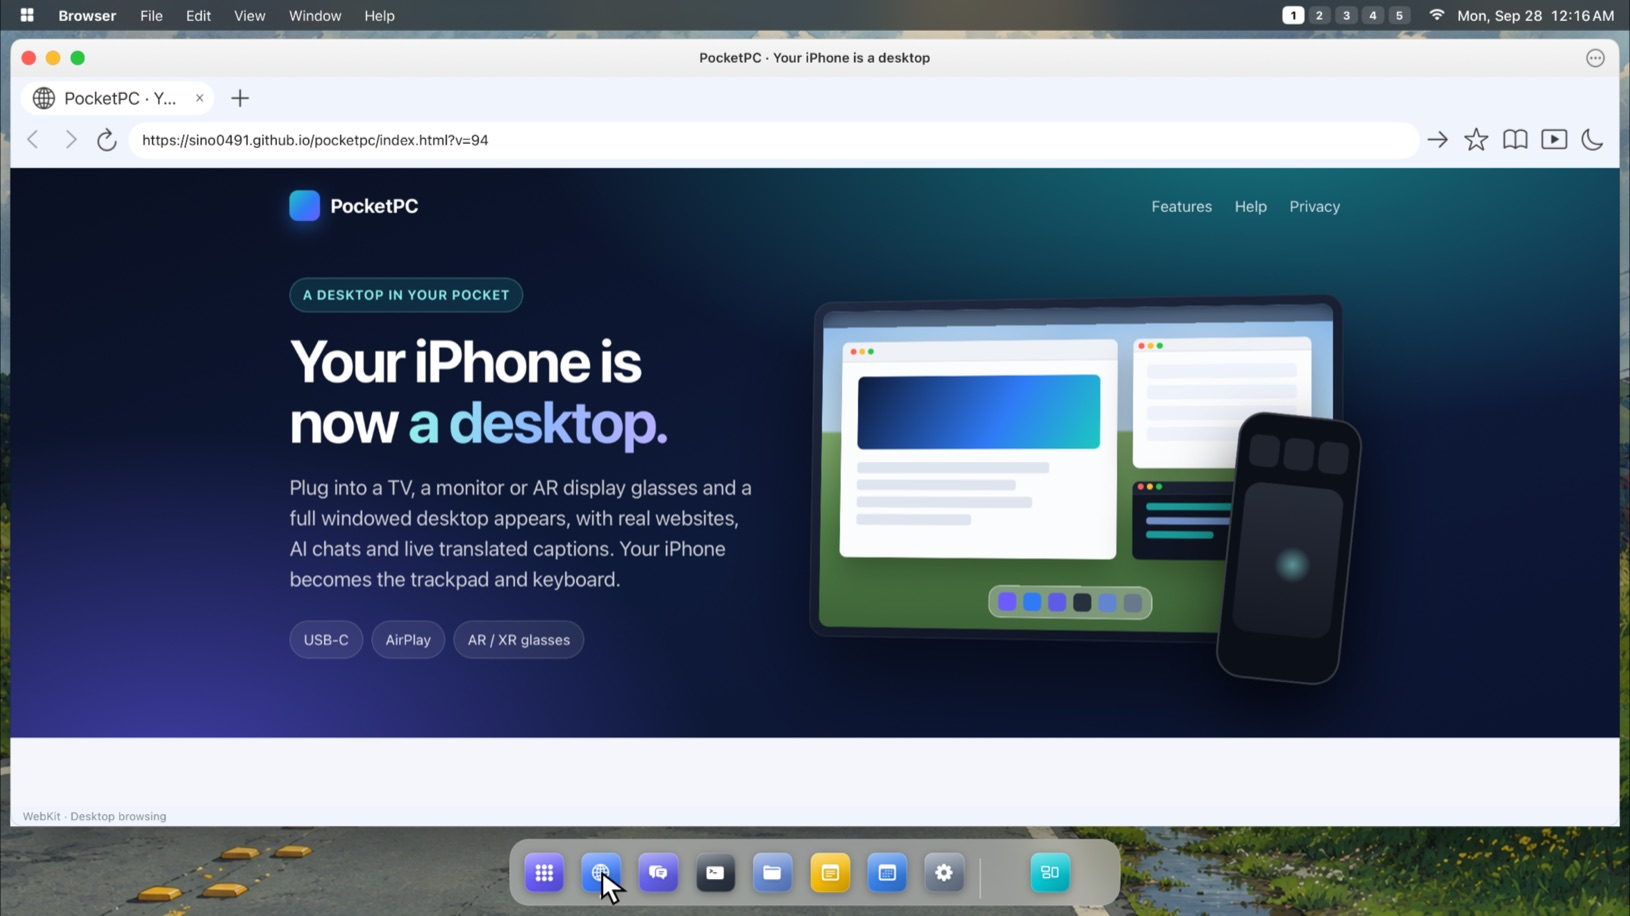
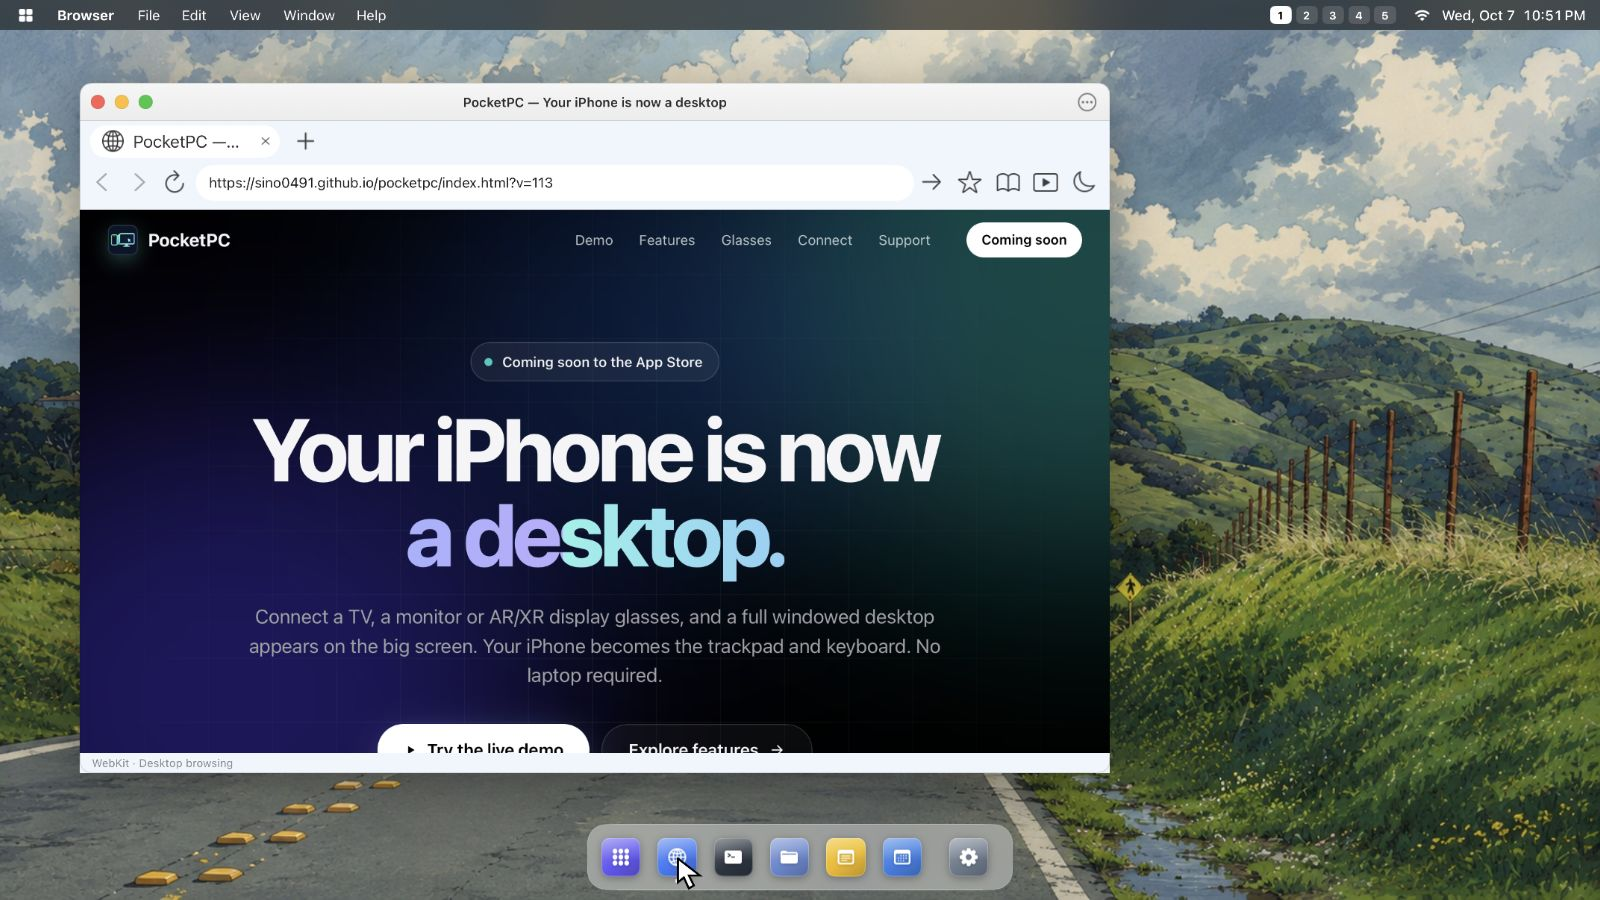
Refresh PocketPC screenshots for chat-free build 113

diff --git a/index.html b/index.html
@@ -100,7 +100,7 @@
     </div>
   </div>
 
-  
+
 
   <div class="stage" id="demo">
     <div class="stage-glow" aria-hidden="true"></div>
@@ -229,7 +229,7 @@
               <div class="mp-tab"><i></i><i></i><i></i><i></i></div>
             </div>
           </div>
-          <div class="cmp-b"><img src="assets/capture-browser.jpg" width="1630" height="916" alt="PocketPC filling an external display: the Browser window showing a full desktop website above the Dock." loading="lazy" decoding="async"></div>
+          <div class="cmp-b"><img src="assets/capture-browser.jpg" width="1600" height="900" alt="PocketPC filling an external display: the Browser window showing a full desktop website above the Dock." loading="lazy" decoding="async"></div>
           <span class="cmp-lbl l">Mirroring</span><span class="cmp-lbl r">PocketPC</span>
           <div class="cmp-line" aria-hidden="true"></div>
           <button class="cmp-handle" id="cmpHandle" role="slider" aria-label="Compare mirroring with PocketPC" aria-valuemin="0" aria-valuemax="100" aria-valuenow="50"><svg viewBox="0 0 24 24"><path d="M9 7l-5 5 5 5M15 7l5 5-5 5"/></svg></button>
@@ -365,7 +365,7 @@
   <div class="wrap">
     <div class="capture" id="capture">
       <figure>
-        <div class="frame" id="capFrame"><img src="assets/capture-desktop.jpg" width="1630" height="920" loading="lazy" decoding="async" alt="PocketPC on an external display: Terminal, Settings and Files windows side by side above the Dock, on a countryside road wallpaper."></div>
+        <div class="frame" id="capFrame"><img src="assets/capture-desktop.jpg" width="1600" height="900" loading="lazy" decoding="async" alt="PocketPC on an external display: Browser and Files windows above the Dock, on a countryside road wallpaper."></div>
         <figcaption>Captured from the external display. The iPhone is the trackpad.</figcaption>
       </figure>
     </div>
@@ -408,7 +408,7 @@
     <div class="scrolly-media">
       <div class="dev-stage" id="devStage" data-stage="glasses">
         <div class="ds-world" aria-hidden="true"></div>
-        <div class="ds-screen"><img src="assets/capture-mixed.jpg" width="1630" height="916" alt="" loading="lazy" decoding="async"><i class="ds-glare"></i></div>
+        <div class="ds-screen"><img src="assets/capture-mixed.jpg" width="1600" height="900" alt="" loading="lazy" decoding="async"><i class="ds-glare"></i></div>
         <svg class="ds-glasses" viewBox="0 0 600 170" aria-hidden="true"><path d="M20 40 C 20 20, 40 14, 70 14 L 250 14 C 272 14, 282 24, 286 40 C 292 52, 308 52, 314 40 C 318 24, 328 14, 350 14 L 530 14 C 560 14, 580 20, 580 40 L 574 100 C 570 136, 548 156, 506 156 L 398 156 C 356 156, 334 132, 324 96 C 318 76, 282 76, 276 96 C 266 132, 244 156, 202 156 L 94 156 C 52 156, 30 136, 26 100 Z" fill="none" stroke="rgba(190,205,235,.85)" stroke-width="9" stroke-linejoin="round"/><path d="M20 40 L 0 30 M580 40 L 600 30" stroke="rgba(190,205,235,.85)" stroke-width="9" stroke-linecap="round"/></svg>
         <div class="ds-stand" aria-hidden="true"></div>
         <div class="ds-feet" aria-hidden="true"><i></i><i></i></div>
